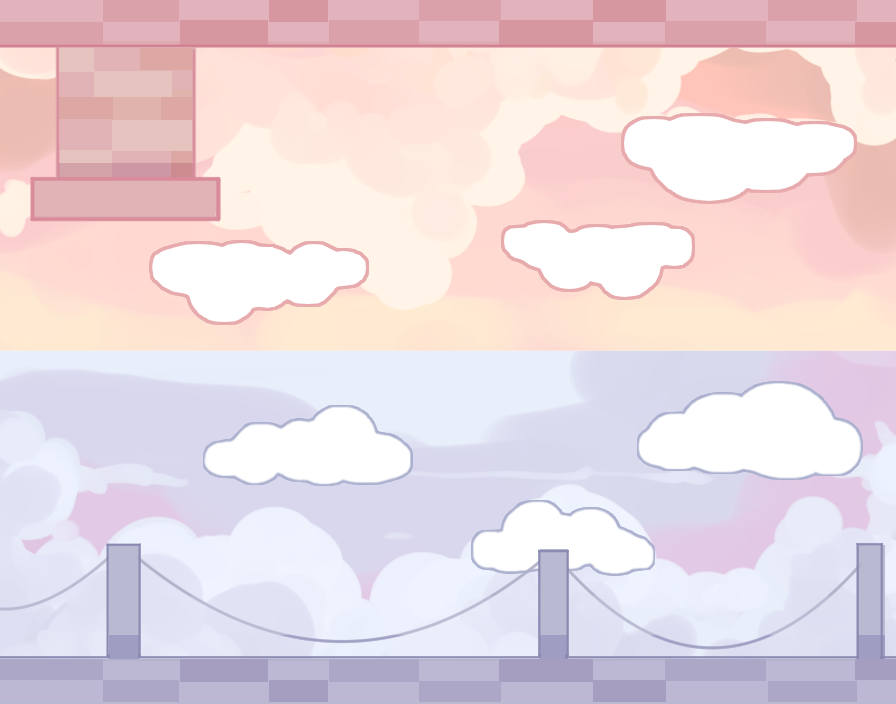
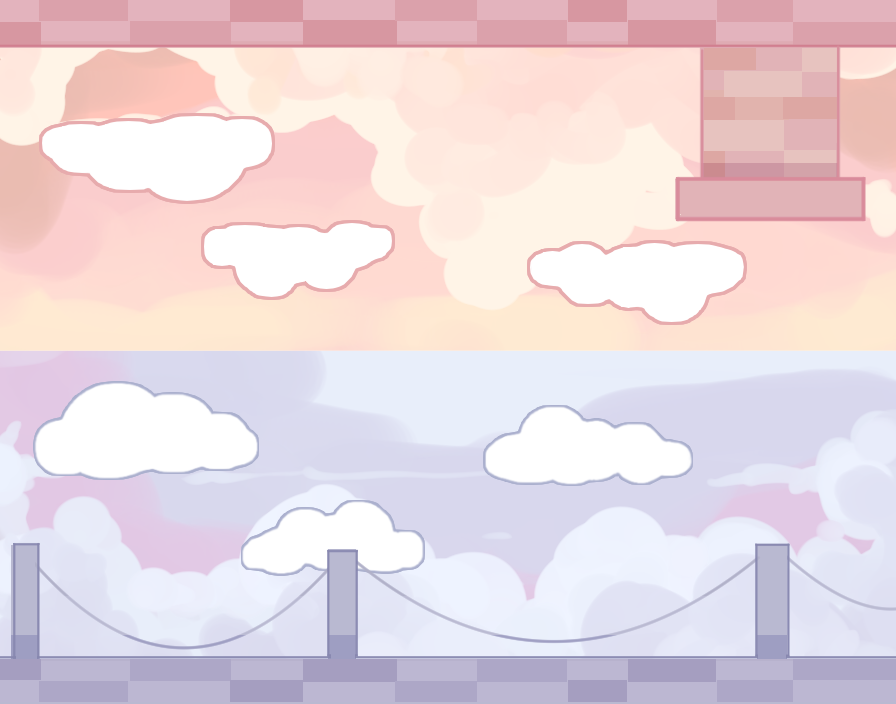
Implemented objective glow
-it's a little rough, and we proably want a more simple shape (maybe a heart?)
-Cleaned up the Houses code too

diff --git a/js/States/Houses.js b/js/States/Houses.js
@@ -12,8 +12,7 @@ Houses.prototype = {
         this.ost = ost;
         this.oneWin = false;
         this.twoWin = false;
-        this.complete = false;
-            
+        this.complete = false;         
     },
     create: function(){
         
@@ -25,58 +24,18 @@ Houses.prototype = {
         game.camera.onFadeComplete.add(this.resetFade, this);
         game.camera.flash(0x000000, 2000);
 
-        //this.room = game.add.sprite(0,0,'Houses');
-       // this.room.scale.setTo(0.12,0.112);
-      //For when we create a tileset
-        this.testLevel = this.game.add.tilemap('levelThree');
-        this.testLevel.addTilesetImage('pixel3', 'mapTiles');
-
-        //this.testLevel.setCollisionByExclusion([]);
-
-        this.bgLayer = this.testLevel.createLayer('Platforms');
-
-        this.bgLayer.resizeWorld();
-
-
-        // Create the collision groups
-        this.playerCollisionGroup = game.physics.p2.createCollisionGroup();
-        this.surrogateCollisionGroup = game.physics.p2.createCollisionGroup();
-        this.platformCollisionGroup = game.physics.p2.createCollisionGroup();
-        this.objectCollisionGroup = game.physics.p2.createCollisionGroup();
-        this.cloudCollisionGroup = game.physics.p2.createCollisionGroup();
-        this.limiterCollisionGroup = game.physics.p2.createCollisionGroup();
-        game.physics.p2.updateBoundsCollisionGroup();
-
-          //this.testLevel.setCollisionGroup(this.platformCollisionGroup);
-     // this.testLevel.setCollisionBetween([], true);
-      this.testLevel.setCollisionByExclusion([]);
-      this.platforms = game.physics.p2.convertTilemap(this.testLevel, this.bgLayer, true);
-     // console.log(game.physics.p2.convertTilemap(this.testLevel, 'Tile Layer 1', true));
-      console.log(this.platforms);
-     // game.add.existing(this.platforms[0]);
-     for(var i = 0; i < this.platforms.length; i++){
-      this.platforms[i].setCollisionGroup(this.platformCollisionGroup);
-      
-      this.platforms[i].collides([this.playerCollisionGroup, this.surrogateCollisionGroup]);
-     }
-
+        // Call the loaded in tilemap assets
+        this.createPlatforms();
+        
+        // Add the level objectives
         this.fishBowl = game.add.sprite(834, 428, 'fishbowl'); 
-      //  game.add.existing(this.fishBowl);
-        //game.physics.p2.enable(this.fishBowl);
-
         this.flower = game.add.sprite(839, 299, 'flower');
 
+        // Call the background image
         this.room = game.add.sprite(0,0,'Houses');
-        //Instantiate the music for this level
-       
-        //Create the win state text
-        this.oneWinText = game.add.text(game.width/2 + 4.5, game.height/2 + 32, '', {font: 'Impact', fontSize: '32px', fill: '#FF7373'});
-        this.oneWinText.anchor.set(0.5);
-        this.oneWinText.inputEnabled = true;
-        this.twoWinText = game.add.text(game.width/2 + 4.5, game.height/2 - 30, '', {font: 'Impact', fontSize: '32px', fill: '#9C6EB2'});
-        this.twoWinText.anchor.set(0.5);
-        this.twoWinText.inputEnabled = true;
-
+        // Add in objective glow
+        this.glow();
+      
         // Add in the players
         this.player1 = new Player(game, this, 170, 682, "cat1", 1);
         game.add.existing(this.player1);
@@ -90,8 +49,8 @@ Houses.prototype = {
         this.yarn = new Yarn(game, this, 'ball', this.player1, this.player2, this.surrogate);
         game.add.existing(this.yarn);
    
-
-        this.createPlatform(game.width/2, game.height/2, game.width, 1);
+        // Add the barrier between worlds
+        this.createBarrier(game.width/2, game.height/2, game.width, 1);
 
     },
     update: function(){
@@ -100,36 +59,93 @@ Houses.prototype = {
             this.complete = true;
             game.time.events.add(1000, this.fade, this);
         }
-        if(Phaser.Math.distance(this.fishBowl.x, this.fishBowl.y, this.player1.x, this.player1.y) < 70){
+        if(Phaser.Math.distance(this.fishBowl.x, this.fishBowl.y, this.player1.x, this.player1.y) < 70) {
             this.oneWin = true;
+            game.add.tween(this.redGlow).to( { alpha: 0.3 }, 100, Phaser.Easing.Linear.None, true, 0);
         }
-        if(Phaser.Math.distance(this.flower.x, this.flower.y, this.player2.x, this.player2.y) < 70){
+        else { 
+            this.oneWin = false;
+            game.add.tween(this.redGlow).to( { alpha: 0 }, 100, Phaser.Easing.Linear.None, true, 0);
+        }
+        if(Phaser.Math.distance(this.flower.x, this.flower.y, this.player2.x, this.player2.y) < 70) {
            this.twoWin = true;
+           game.add.tween(this.blueGlow).to( { alpha: 0.3 }, 100, Phaser.Easing.Linear.None, true, 0);
         }
+        else {
+            this.twoWin = false;
+            game.add.tween(this.blueGlow).to( { alpha: 0 }, 100, Phaser.Easing.Linear.None, true, 0);
+        }
+    },
+
+    glow: function() {
+        this.redGlow = game.add.sprite(834, 428, 'purpBall');
+        this.redGlow.anchor.setTo(0.5,0.5);
+        this.redGlow.scale.setTo(1.7,1.7);
+        this.redGlow.alpha = 0;
+        this.blueGlow = game.add.sprite(839, 299, 'purpBall');
+        this.blueGlow.anchor.setTo(0.5,0.5);
+        this.blueGlow.scale.setTo(1.7,1.7);
+        this.blueGlow.alpha = 0;
+          
     },
 
     fade: function() {
-
-    //  You can set your own fade color and duration
-    game.camera.fade(0x000000, 1000);
-
+        //  You can set your own fade color and duration
+        game.camera.fade(0x000000, 1000);
     },
     resetFade: function() {
         game.state.start('Windows', true, false);
-        //game.camera.resetFX();
-        
-
     },
 
     //Helper function to create platforms the old fashion way
-    createPlatform: function(x,y,width,height){
+    createPlatforms: function(){
+        this.testLevel = this.game.add.tilemap('levelThree');
+        this.testLevel.addTilesetImage('pixel3', 'mapTiles');
+
+        // Load in the platforms layer
+        this.bgLayer = this.testLevel.createLayer('Platforms');
+        
+        // Just for safety
+        this.bgLayer.resizeWorld();
+       
+        //Instantiate the collision groups for the objects can interact
+        this.playerCollisionGroup = game.physics.p2.createCollisionGroup();
+        this.surrogateCollisionGroup = game.physics.p2.createCollisionGroup();
+        this.platformCollisionGroup = game.physics.p2.createCollisionGroup();
+        this.objectCollisionGroup = game.physics.p2.createCollisionGroup();
+        this.cloudCollisionGroup = game.physics.p2.createCollisionGroup();
+        this.limiterCollisionGroup = game.physics.p2.createCollisionGroup();
+        game.physics.p2.updateBoundsCollisionGroup();
+
+        
+        //  Convert the tilemap layer into bodies. Only tiles that collide (see above) are created.
+        //  This call returns an array of body objects which you can perform addition actions on if
+        //  required. There is also a parameter to control optimising the map build.
+        this.testLevel.setCollisionByExclusion([]);
+        this.platforms = game.physics.p2.convertTilemap(this.testLevel, this.bgLayer, true);
+        for(var i = 0; i < this.platforms.length; i++){
+            this.platforms[i].setCollisionGroup(this.platformCollisionGroup);
+            this.platforms[i].collides([this.playerCollisionGroup, this.surrogateCollisionGroup, this.objectCollisionGroup]);
+        }
+        console.log(this.testLevel.objects[0]);
+    },
+    createBarrier: function(x,y,width,height){
         var platform = game.add.sprite(x,y, 'line');
-        platform.anchor.setTo(0.5,0.5);
         //platform.scale.setTo(0.08,0.08);
+        platform.anchor.setTo(0.5,0.5);
         game.physics.p2.enable(platform, true);
         platform.body.setRectangle(width,height, 0, 0, 0);
         platform.body.static = true;
         platform.body.setCollisionGroup(this.platformCollisionGroup);
         platform.body.collides([this.playerCollisionGroup, this.surrogateCollisionGroup]);
+    },
+    tutorialText: function() {
+        //Create the win state text
+        this.oneWinText = game.add.text(game.width/2 + 4.5, game.height/2 + 32, '', {font: 'Impact', fontSize: '32px', fill: '#FF7373'});
+        this.oneWinText.anchor.set(0.5);
+        this.oneWinText.inputEnabled = true;
+        this.twoWinText = game.add.text(game.width/2 + 4.5, game.height/2 - 30, '', {font: 'Impact', fontSize: '32px', fill: '#9C6EB2'});
+        this.twoWinText.anchor.set(0.5);
+        this.twoWinText.inputEnabled = true;
     }
 }

diff --git a/js/States/Fences.js b/js/States/Fences.js
@@ -32,7 +32,7 @@ Fences.prototype = {
         this.testLevel.addTilesetImage('pixel3', 'mapTiles');
 
         //this.testLevel.setCollisionByExclusion([]);
-
+        this.room = game.add.sprite(0,0,'Fences');
         this.bgLayer = this.testLevel.createLayer('Platforms');
 
         this.bgLayer.resizeWorld();
@@ -63,7 +63,7 @@ Fences.prototype = {
         this.fishBowl = game.add.sprite(79, 404, 'fishbowl');
         this.flower = game.add.sprite(79, 304, 'flower');
 
-        this.room = game.add.sprite(0,0,'Fences');
+        
         //Add the background image
 
 
@@ -79,7 +79,7 @@ Fences.prototype = {
         this.player1 = new Player(game, this, 853, 596, "cat1", 1);
         game.add.existing(this.player1);
 
-        this.player2 = new Player(game, this, 32, 200, "cat2", 2);
+        this.player2 = new Player(game, this, 808, 257, "cat2", 2);
         game.add.existing(this.player2);
         //Create the surrogate player for the yarn
         this.surrogate = new Player(game, this, 300, 100, "cat1", 3);
@@ -89,15 +89,14 @@ Fences.prototype = {
         this.yarn = new Yarn(game, this, 'ball', this.player1, this.player2, this.surrogate);
         game.add.existing(this.yarn);
 
-        // Add platforms to both sides (they're hardcoded for now, hopefully Tiled later)
-       /* this.createPlatform(400,550,100,10);
-        this.createPlatform(500,450,100,10);
-        this.createPlatform(50,450,100,10);
-        this.createPlatform(50,200,100,10);
-        this.createPlatform(400,200,400,10);
-       */ this.createPlatform(game.width/2, game.height/2, game.width, 1);
+ 
+        this.createPlatform(game.width/2, game.height/2, game.width, 1);
 
-        
+        this.cloud1 = new MovePlatform(game, this, 836, 535, 'cat2', 535, 405, 'down', 'window');
+        game.add.existing(this.cloud1);
+
+        this.cloud2 = new MovePlatform(game, this, 234, 114, 'cat2', 114, 200, 'up', 'window');
+        game.add.existing(this.cloud2);
 
     },
     update: function(){

diff --git a/js/States/Separate.js b/js/States/Separate.js
@@ -6,39 +6,50 @@
 //Initialize the Main Menu state
 var Separate = function(game){};
 Separate.prototype = {
+	init: function(ost){
+		// initialize variables for gameplay
+        this.theme = ost;
+    },
 	create: function(){
+		// Fade out the level one theme
+		if(this.theme.isPlaying == true) {
+			this.theme.fadeOut(1000);
+		}
+
 		// Add in the title card
 		this.title = game.add.sprite(game.width/2,game.height/2,'title');
 		this.title.anchor.setTo(0.5,0.5);
 		this.title.alpha= 0;
 
 		this.ost = game.add.audio('Separate');
-		this.ost.play('', 0, 1, true);	
+		this.ost.onDecoded.add(this.startOST, this);
+
         this.narrate = game.add.audio('narrate');
-        this.narrate.play('', 0, 1, false);
-        this.narrate.volume = 0.35;
+        this.narrate.onDecoded.add(this.startNar, this);
 
 		game.add.tween(this.title).to( { alpha: 1 }, 2000, Phaser.Easing.Linear.None, true, 0);
 		
 		//this.space = game.input.keyboard.addKey(Phaser.Keyboard.SPACEBAR);
 
 		game.camera.onFadeComplete.add(this.resetFade, this);
-		//this.space.onDown.add(this.fade, this);
 		game.time.events.add(3000, this.fade, this);
-		if(game.add.audio('Together').isPlaying) {
-			game.add.audio('Together').destroy();
-		}
+	},
+	startOST: function() {
+		// Begin playing the level theme
+		this.ost.play('', 0, 1, true);
+		this.ost.volume = 0.5;	
+	},
+	startNar: function() {
+		// Begin playing the intro narration
+		this.narrate.play('', 0, 1, false);
+        this.narrate.volume = 0.35;
 	},
 	fade: function() {
-
-    //  You can set your own fade color and duration
-    game.camera.fade(0x000000, 2000);
-
+	    //  You can set your own fade color and duration
+	    game.camera.fade(0x000000, 2000);
 	},
 	resetFade: function() {
+		// ONce fade is complete, begin Chapter 2
 		game.state.start('Houses', true, false, this.ost);
-	    //game.camera.resetFX();
-	    
-
 	}
 };

diff --git a/js/States/Load.js b/js/States/Load.js
@@ -30,8 +30,10 @@ Load.prototype = {
 		game.load.image('title', 'img/cats/title.png');
 		game.load.image('gameOver', 'img/cats/gameOver.png');
 
-		game.load.image('redball', 'img/cats/redYarn.png');
-		game.load.image('blueball', 'img/cats/blueYarn.png');
+		game.load.image('redBall', 'img/cats/redYarn.png');
+		game.load.image('blueBall', 'img/cats/blueYarn.png');
+		game.load.image('purpBall', 'img/cats/purpleYarn.png');
+		
 		//Once we have a tilemap, we'll load it in
         //game.load.spritesheet('mapTiles', 'img/bg_floor.png', 32, 32);
         //game.load.tilemap('testLevel','img/ProjectGeminiTest.json', null, Phaser.Tilemap.TILED_JSON);

diff --git a/js/States/Together.js b/js/States/Together.js
@@ -47,12 +47,11 @@ Together.prototype = {
         this.narrate.volume = 0.35;
 	},
 	fade: function() {
-	    //  You can set your own fade color and duration
+	    // You can set your own fade color and duration
 	    game.camera.fade(0x000000, 2000);
-
 	},
 	resetFade: function() {
-		// Once the fade is complete, begin level one
+		// Once the fade is complete, begin Chapter 1
 		game.state.start('Cats', true, false, this.ost);
 	}
 };
